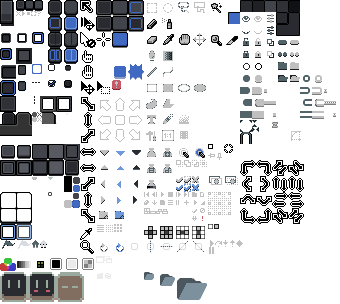
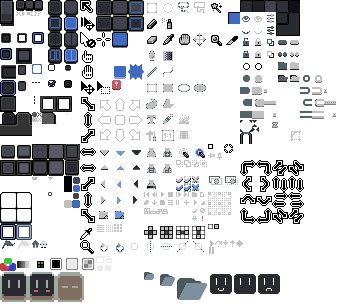
Feedback Window

Changed region(s): [[0.6176, 0.8882, 0.8235, 0.977]]

diff --git a/src/app/commands/cmd_feedback.cpp b/src/app/commands/cmd_feedback.cpp
@@ -1,0 +1,212 @@
+// Aseprite
+// Copyright (C) 2026-present  Igara Studio S.A.
+//
+// This program is distributed under the terms of
+// the End-User License Agreement for Aseprite.
+
+#ifdef HAVE_CONFIG_H
+  #include "config.h"
+#endif
+
+#include "app/app.h"
+#include "app/commands/command.h"
+#include "app/context.h"
+#include "app/i18n/strings.h"
+#include "app/ui/main_window.h"
+#include "feedback.xml.h"
+#include "os/window.h"
+#include "ui/manager.h"
+
+#if ENABLE_SENTRY
+  #include "app/sentry_wrapper.h"
+#endif
+
+#include "fmt/format.h"
+
+namespace app {
+
+using namespace ui;
+
+namespace {
+std::string face_to_feedback_type(const int face)
+{
+  switch (face) {
+    case 0:  return "positive";
+    case 2:  return "negative";
+    default: return "neutral";
+  }
+}
+
+class FeedbackWindow final : public gen::Feedback {
+public:
+  explicit FeedbackWindow(const Sentry::Feedback& feedback) : m_submitted(false)
+  {
+    faces()->ItemChange.connect(&FeedbackWindow::onFaceChange, this);
+
+    email()->Change.connect([this] {
+      // Very basic email validation
+      const auto& text = email()->text();
+      const size_t atPos = email()->text().find('@');
+      if (!text.empty() && (atPos == std::string::npos || atPos == text.length() - 1))
+        submitButton()->setEnabled(false);
+      else
+        submitButton()->setEnabled(true);
+    });
+
+    submitButton()->Click.connect(&FeedbackWindow::onSubmit, this);
+
+    if (feedback.type != face_to_feedback_type(faces()->selectedItem())) {
+      int item = 1;
+      if (feedback.type == "positive")
+        item = 0;
+      else if (feedback.type == "negative")
+        item = 2;
+
+      faces()->setSelectedItem(item);
+      onFaceChange();
+    }
+    email()->setText(feedback.email);
+    comments()->setText(feedback.comments);
+
+    centerWindow();
+  }
+
+  Sentry::Feedback feedback() const
+  {
+    if (m_submitted)
+      return {};
+
+    return { .email = email()->text(),
+             .comments = comments()->text(),
+             .type = face_to_feedback_type(faces()->selectedItem()),
+             .attachExtras = attachExtras()->isSelected() };
+  }
+
+  void showLoading() const
+  {
+    faces()->setEnabled(false);
+    email()->setEnabled(false);
+    comments()->setEnabled(false);
+    submitButton()->setText(Strings::feedback_submitting());
+    submitButton()->setEnabled(false);
+  }
+
+  void showThanks()
+  {
+    m_submitted = true;
+    faces()->setVisible(false);
+    form()->setVisible(false);
+    submitButton()->setVisible(false);
+    thankYou()->setVisible(true);
+    close()->requestFocus();
+    remapWindow();
+  }
+
+  void showError()
+  {
+    // Does not reset m_submitted so the user can try again later.
+    faces()->setVisible(false);
+    form()->setVisible(false);
+    submitButton()->setVisible(false);
+    error()->setVisible(true);
+    close()->requestFocus();
+    remapWindow();
+  }
+
+  obs::signal<void(const Sentry::Feedback&)> Submit;
+
+private:
+  void onSubmit()
+  {
+    Submit(feedback());
+    showLoading();
+  };
+
+  void onFaceChange(ButtonSet::Item* = nullptr)
+  {
+    switch (faces()->selectedItem()) {
+      case 0: comments()->setPlaceholder(Strings::feedback_positive_placeholder()); break;
+      case 1: comments()->setPlaceholder(Strings::feedback_neutral_placeholder()); break;
+      case 2: comments()->setPlaceholder(Strings::feedback_negative_placeholder()); break;
+    }
+
+    if (!form()->isVisible()) {
+      form()->setVisible(true);
+      actionButtons()->setVisible(true);
+      remapWindow();
+    }
+
+    comments()->selectAll();
+    if (!comments()->text().empty())
+      comments()->requestFocus();
+  }
+
+  bool m_submitted;
+};
+} // namespace
+
+class FeedbackCommand : public Command {
+public:
+  FeedbackCommand();
+
+protected:
+  void onExecute(Context* context) override;
+  bool onEnabled(Context* context) override;
+
+private:
+  Sentry::Feedback m_lastFeedback;
+  bool m_feedbackInProgress = false;
+  bool m_showResult = false;
+};
+
+FeedbackCommand::FeedbackCommand() : Command(CommandId::Feedback())
+{
+}
+
+bool FeedbackCommand::onEnabled(Context* context)
+{
+#if ENABLE_SENTRY
+  return context->isUIAvailable() && Sentry::isInitialized() && !m_feedbackInProgress;
+#endif
+
+  return false;
+}
+
+void FeedbackCommand::onExecute(Context* context)
+{
+#ifndef ENABLE_SENTRY
+  return;
+#else
+  ASSERT(m_feedbackInProgress == false);
+  if (m_feedbackInProgress)
+    return;
+
+  FeedbackWindow window(m_lastFeedback);
+  m_showResult = true;
+  window.Submit.connect([this, &window](const Sentry::Feedback& feedback) {
+    m_feedbackInProgress = true;
+    Sentry::sendFeedbackAsync(feedback, [this, &window](const bool result) {
+      m_feedbackInProgress = false;
+      if (!m_showResult)
+        return;
+      if (result) {
+        window.showThanks();
+      }
+      else {
+        window.showError();
+      }
+    });
+  });
+
+  window.openWindowInForeground();
+  m_showResult = false;
+  m_lastFeedback = window.feedback();
+#endif
+}
+
+Command* CommandFactory::createFeedbackCommand()
+{
+  return new FeedbackCommand;
+}
+
+} // namespace app

diff --git a/src/app/sentry_wrapper.cpp b/src/app/sentry_wrapper.cpp
@@ -1,5 +1,5 @@
 // Aseprite
-// Copyright (C) 2021-2024  Igara Studio S.A.
+// Copyright (C) 2021-present  Igara Studio S.A.
 //
 // This program is distributed under the terms of
 // the End-User License Agreement for Aseprite.
@@ -10,6 +10,7 @@
 
 #include "app/sentry_wrapper.h"
 
+#include "app/ini_file.h"
 #include "app/resource_finder.h"
 #include "base/fs.h"
 #include "base/log.h"
@@ -17,7 +18,11 @@
 #include "base/string.h"
 #include "ver/info.h"
 
+#include "base/time.h"
 #include "sentry.h"
+#include "ui/system.h"
+
+#include <thread>
 
 namespace app {
 
@@ -51,6 +56,8 @@ void Sentry::init()
 
   if (sentry_init(options) == 0)
     m_init = true;
+  else
+    LOG(ERROR, "Failed to initialize Sentry.\n");
 }
 
 Sentry::~Sentry()
@@ -122,6 +129,11 @@ bool Sentry::areThereCrashesToReport()
   return false;
 }
 
+bool Sentry::isInitialized()
+{
+  return (sentry_is_enabled() == 1);
+}
+
 // static
 void Sentry::addBreadcrumb(const char* message)
 {
@@ -145,12 +157,70 @@ void Sentry::addBreadcrumb(const std::string& message,
 
   sentry_value_t c = sentry_value_new_breadcrumb(nullptr, message.c_str());
   sentry_value_t d = sentry_value_new_object();
-  for (const auto& kv : data) {
-    LOG(VERBOSE, " - [%s]=%s\n", kv.first.c_str(), kv.second.c_str());
-    sentry_value_set_by_key(d, kv.first.c_str(), sentry_value_new_string(kv.second.c_str()));
+  for (const auto& [key, value] : data) {
+    LOG(VERBOSE, " - [%s]=%s\n", key.c_str(), value.c_str());
+    sentry_value_set_by_key(d, key.c_str(), sentry_value_new_string(value.c_str()));
   }
   sentry_value_set_by_key(c, "data", d);
   sentry_add_breadcrumb(c);
+}
+
+bool Sentry::sendFeedback(const Feedback& f)
+{
+  sentry_value_t feedback =
+    sentry_value_new_feedback(f.comments.c_str(), f.email.c_str(), nullptr, nullptr);
+  bool revokeAfter = false;
+  if (!consentGiven()) {
+    sentry_user_consent_give();
+    revokeAfter = true;
+  }
+
+  sentry_scope_t* scope = sentry_scope_new();
+  sentry_scope_set_tag(scope, "feedback.source", "feedback-dialog");
+  sentry_scope_set_tag(scope, "feedback.type", f.type.c_str());
+
+  sentry_hint_t* hint = nullptr;
+  if (f.attachExtras) {
+    hint = sentry_hint_new();
+    const auto& logFilename = base::get_log_filename();
+    if (!logFilename.empty() && base::is_file(logFilename))
+      sentry_hint_attach_file(hint, logFilename.c_str());
+    sentry_hint_attach_file(hint, app::main_config_filename().c_str());
+  }
+
+  sentry_scope_capture_feedback(scope, feedback, hint);
+  sentry_scope_free(scope);
+
+  const base::tick_t start = base::current_tick();
+  int result = sentry_flush(2500);
+
+  // Sentry doesn't seem to work consistently when, for example, there's no internet. Sometimes it
+  // fails and returns zero but usually it just lets it through with no complaints. This is a
+  // slightly hacky way to work around it and still report an error to the user, when things go
+  // unusually fast (tested execution time is usually around 200 ms), we assume there's been a
+  // problem. This issue tends to happen more reliably when the failed feedback is the first one the
+  // session. Sending feedback successfully and then attempting to send one when there's no
+  // connection fails correctly on Sentry's side.
+  if (result == 0 && (base::current_tick() - start) <= 10)
+    result = 1;
+
+  if (revokeAfter)
+    sentry_user_consent_reset();
+
+  return (result == 0);
+}
+
+void Sentry::sendFeedbackAsync(const Feedback& feedback, std::function<void(bool)> callback)
+{
+  std::thread backgroundThread{
+    [](const Feedback& feedback, const std::function<void(bool)>& callback) {
+      bool result = sendFeedback(feedback);
+      ui::execute_from_ui_thread([callback, result] { callback(result); });
+    },
+    feedback,
+    callback
+  };
+  backgroundThread.detach();
 }
 
 void Sentry::setupDirs(sentry_options_t* options)

diff --git a/src/app/sentry_wrapper.h b/src/app/sentry_wrapper.h
@@ -13,6 +13,7 @@
 
 #include "sentry.h"
 
+#include <functional>
 #include <map>
 #include <string>
 
@@ -34,10 +35,20 @@ public:
   // the "give consent" check box for first time.
   static bool areThereCrashesToReport();
 
+  static bool isInitialized();
+
+  struct Feedback {
+    std::string email;
+    std::string comments;
+    std::string type = "neutral";
+    bool attachExtras = false;
+  };
   static void addBreadcrumb(const char* message);
   static void addBreadcrumb(const std::string& message);
   static void addBreadcrumb(const std::string& message,
                             const std::map<std::string, std::string>& data);
+  static bool sendFeedback(const Feedback& feedback);
+  static void sendFeedbackAsync(const Feedback& feedback, std::function<void(bool)> callback);
 
 private:
   void setupDirs(sentry_options_t* options);

diff --git a/src/app/commands/commands_list.h b/src/app/commands/commands_list.h
@@ -48,6 +48,7 @@ FOR_EACH_COMMAND(Exit)
 FOR_EACH_COMMAND(ExportSpriteSheet)
 FOR_EACH_COMMAND(ExportTileset)
 FOR_EACH_COMMAND(Eyedropper)
+FOR_EACH_COMMAND(Feedback)
 FOR_EACH_COMMAND(Fill)
 FOR_EACH_COMMAND(FitScreen)
 FOR_EACH_COMMAND(FlattenLayers)
